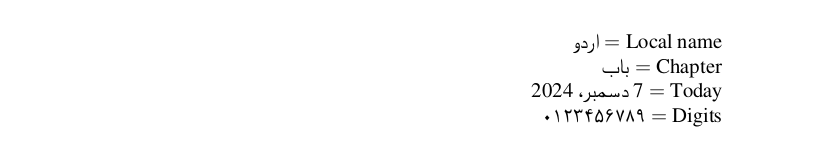
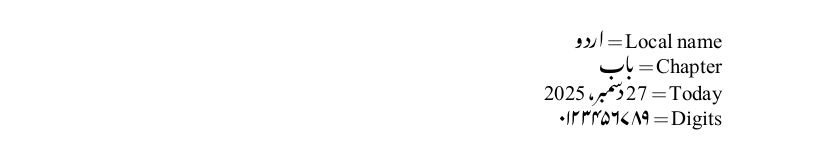
Minor changes in Urdu and Khmer.

Changed region(s): [[0.6235, 0.3593, 0.8729, 0.6287], [0.6547, 0.6287, 0.8729, 0.7784], [0.6859, 0.2096, 0.8729, 0.3293]]

diff --git a/docs/guides/locale-urdu.md b/docs/guides/locale-urdu.md
@@ -10,7 +10,7 @@ Urdu language using the Arabic script.
 ## Support with `ini` locale file
 
 Here is a minimal sample file with `urdu` as the main language
-(assuming `luatex`, which is the recommended engine, and `babel` ≥24.14,
+(assuming `luatex`, which is the recommended engine, and `babel` ≥25.2,
 although it may work with previous versions).
 
 ```tex
@@ -18,7 +18,7 @@ although it may work with previous versions).
 
 \usepackage[provide=*,bidi=basic]{babel}
 
-\babelfont{rm}{FreeSerif}
+\babelfont{rm}{AwamiNastaliq}
 
 \begin{document}
 
@@ -38,6 +38,6 @@ Digits $=$ \localenumeral{digits}{0123456789}
 ## Contribute
 
 If you are a native speaker or have expertise in this language, you can
-contribute, make suggestion or request an enhancement by submitting a
+contribute, make suggestions or request enhancements by submitting a
 pull request, opening an issue, or contacting the Babel maintainer with
 the link above.

diff --git a/docs/guides/locale-khmer.md b/docs/guides/locale-khmer.md
@@ -7,6 +7,9 @@
 This page offers basic guidance on typesetting a LaTeX document in the
 Khmer language using the Khmer script.
 
+See also [How to write Khmer language in
+Latex](https://stackoverflow.com/a/79855740/8303149).
+
 ## Support with `ini` locale file
 
 Here is a minimal sample file with `khmer` as the main language

diff --git a/docs/news/whats-new-in-babel-25.10.md b/docs/news/whats-new-in-babel-25.10.md
@@ -1,6 +1,6 @@
 # What's new in babel 25.10
 
-2026-06-10
+2025-06-10
 
 ## Fixes
 
